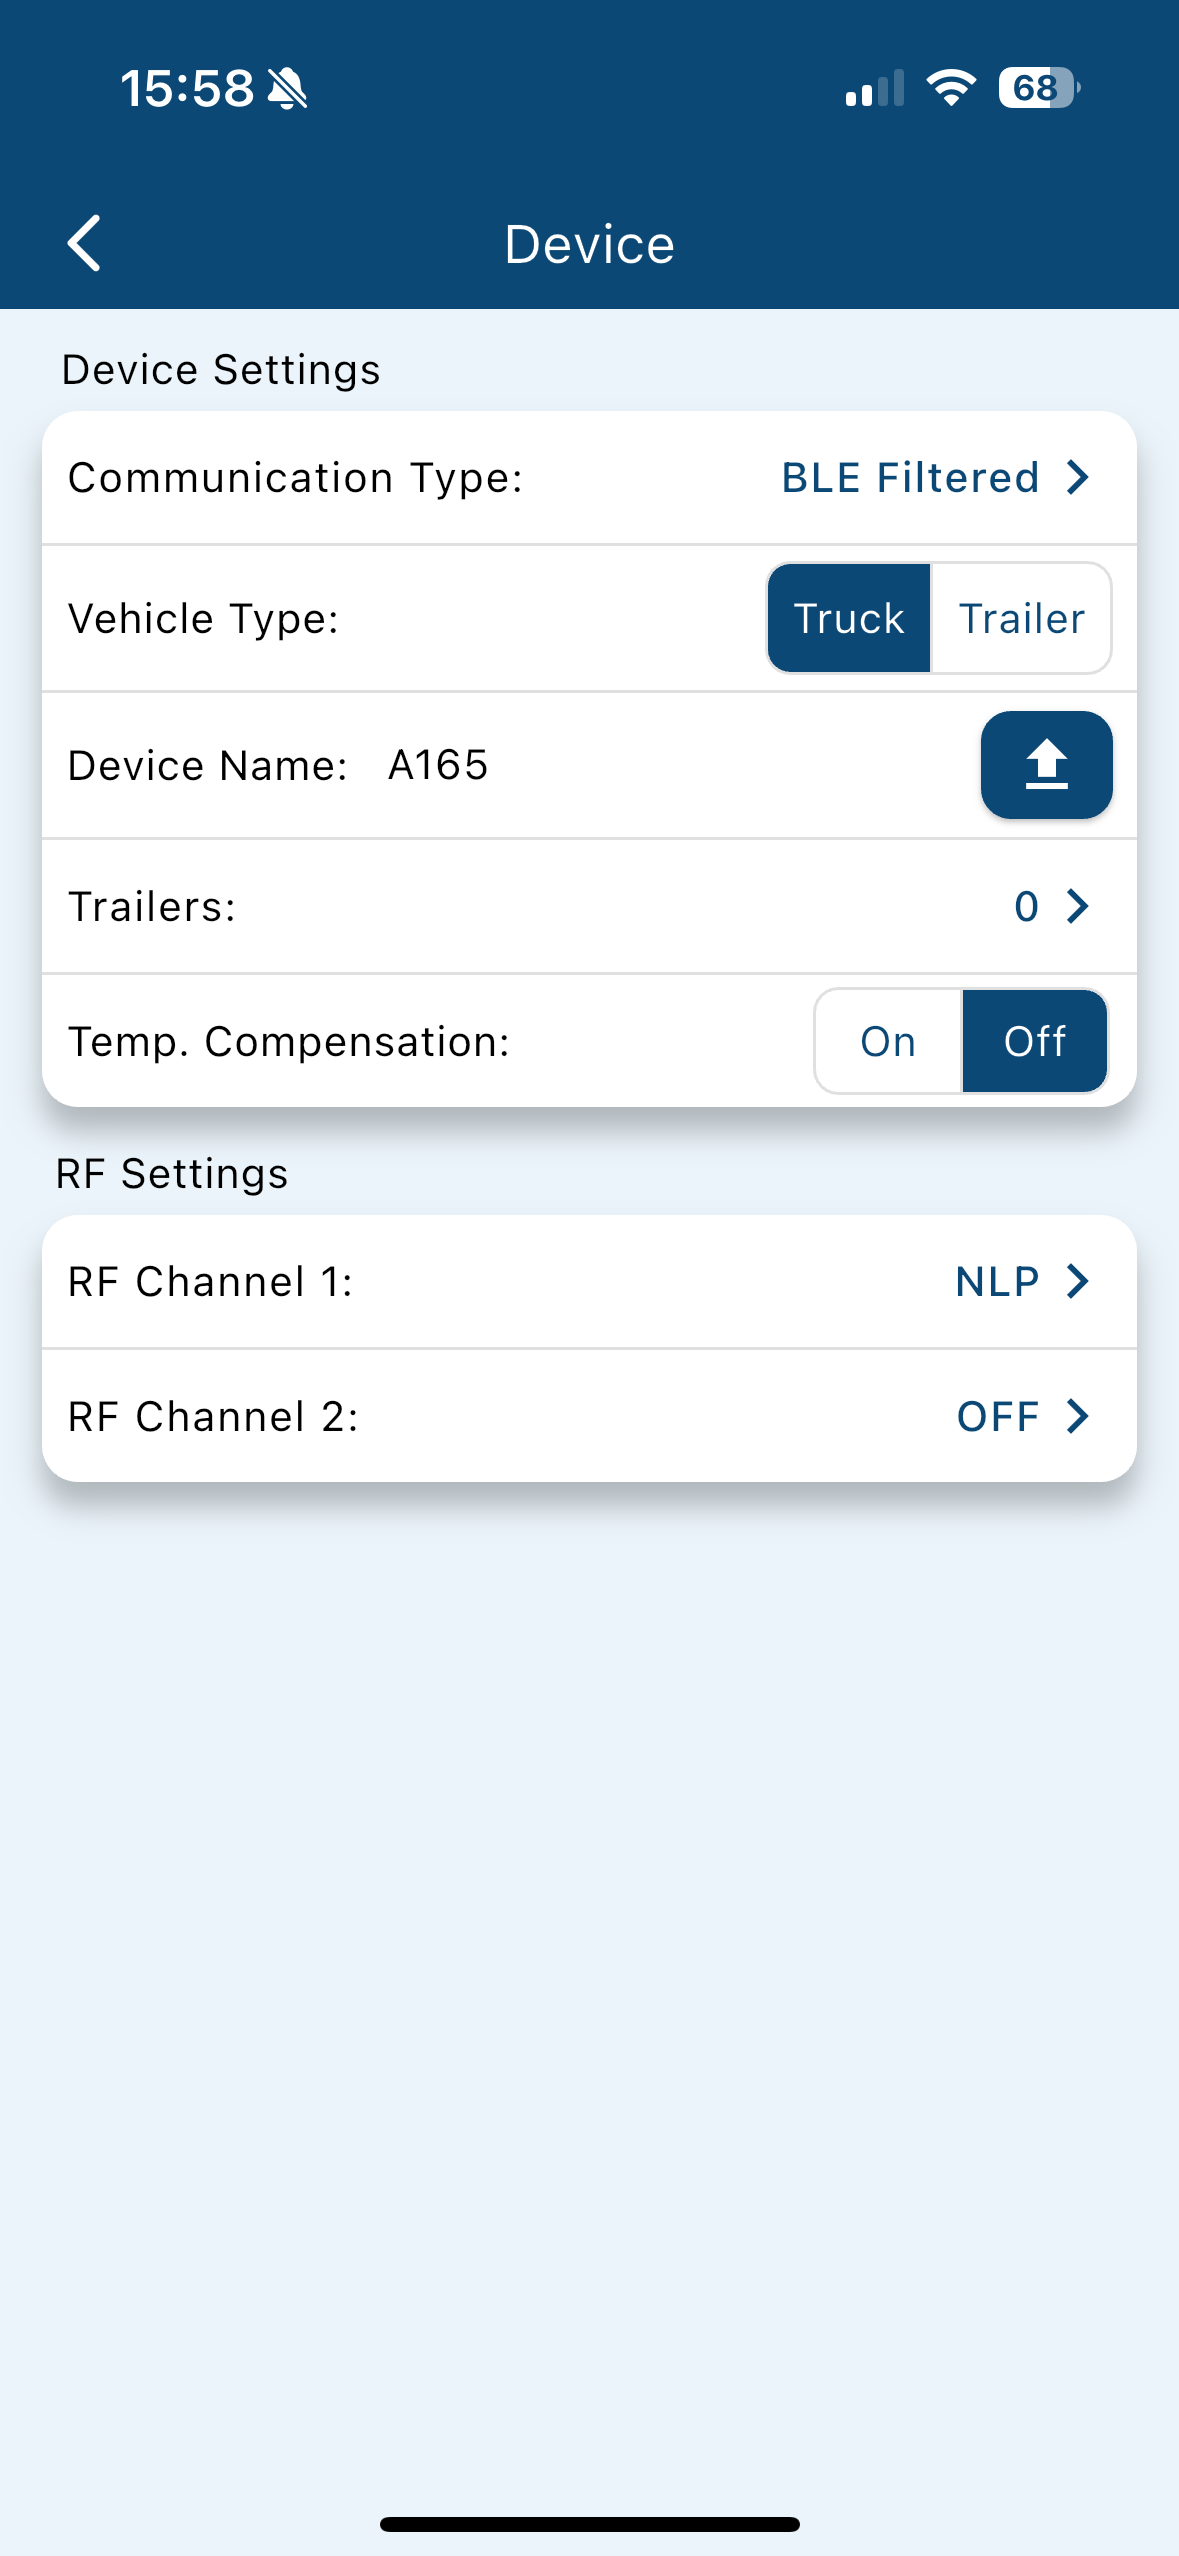
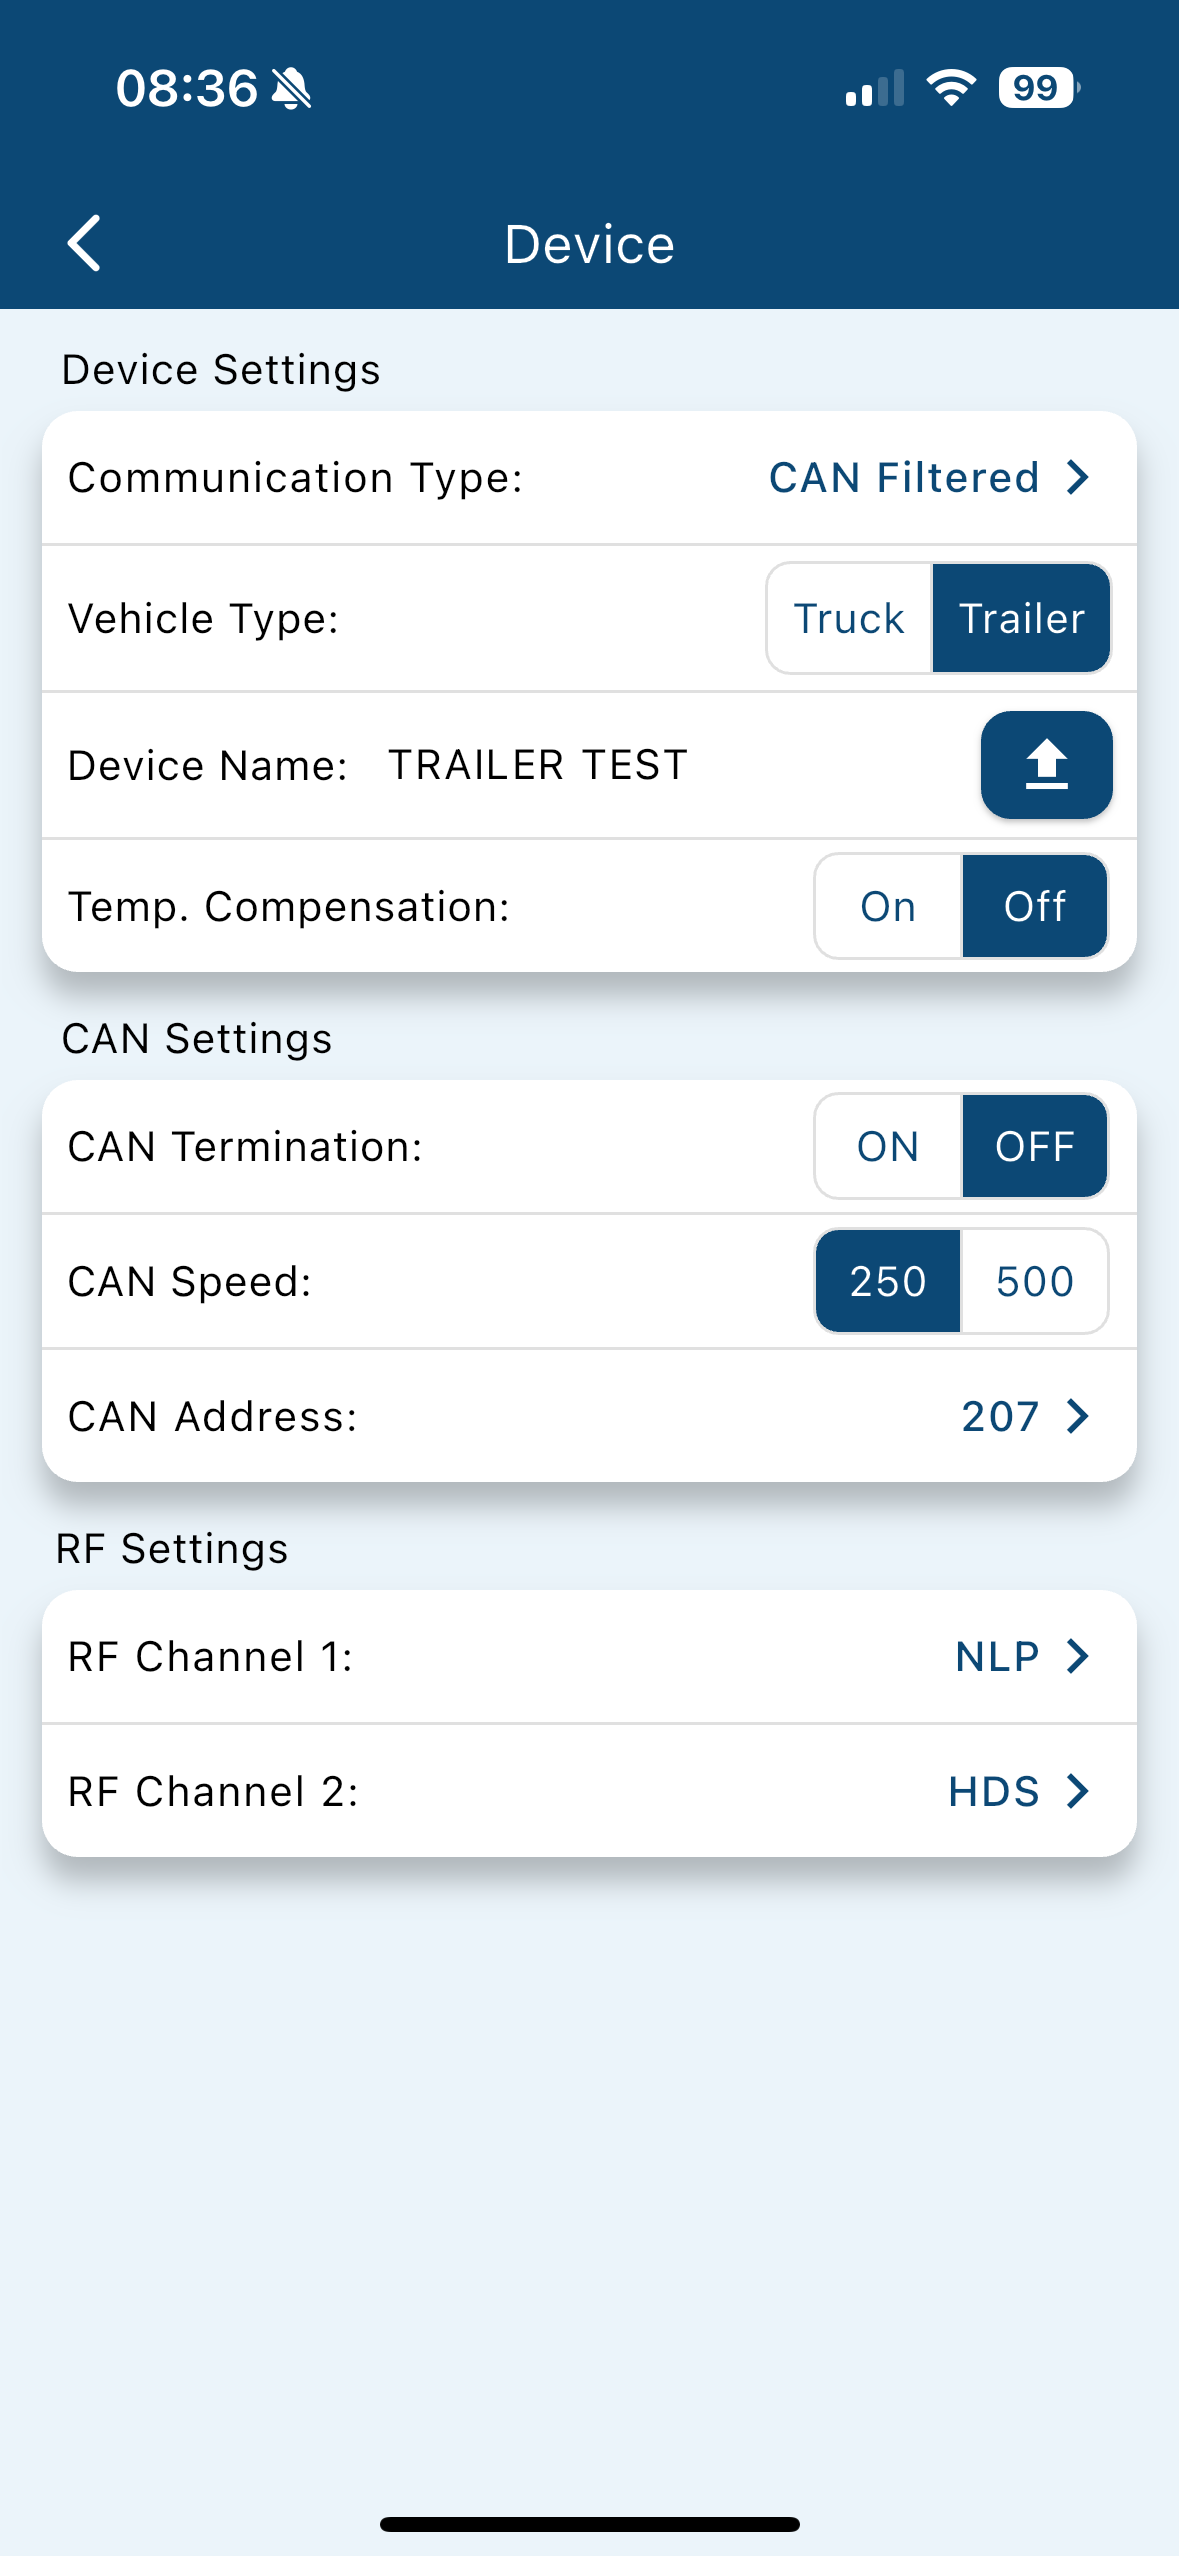
disabled pdf

diff --git a/docs/setup-screen/device.md b/docs/setup-screen/device.md
@@ -5,7 +5,29 @@ pdf: true
 
 The Device Menu enables in-depth configurations:
 
-- **Communication Types:** BLE, CAN, or RS232.
+- **Communication Types:**
+
+Each communication type utilizes a specific transmission method to send the data:
+
+    - BLE (Bluetooth Low Energy): Transmits data wirelessly using BLE technology.
+    - CAN (Controller Area Network): Communicates over a CAN bus, commonly used in automotive environments.
+    - RS232: Transmits data through a serial connection.
+
+| **Type**       | **Mode**      | **Description**                                                                 |
+|-----------------|--------------|---------------------------------------------------------------------------------|
+| **BLE**         | Filtered      | Allows setup of a vehicle and its tires, only displays sensors for this setup.  |
+|                 | Unfiltered    | Displays all sensors around without a vehicle layout.                          |
+| **CAN**         | Filtered      | Supports vehicle and tire setup, listening only to configured sensors.         |
+|                 | Unfiltered    | Displays any sensor data without a specific layout.                            |
+|                 | CAN Garage    | A specific CAN mode tailored for garage or workshop environments.|
+|                 | EBS    | A specific CAN mode tailored for Trailer EBS systems.|
+|                 | RAW    | Custom communication types tailored for specific use cases.|
+|                 | J1939    | A specific CAN mode tailored for J1939.|
+|                 | Unfiltered (old)    | A specific CAN mode tailored for J1939.|
+| **RS232**       | Filtered      | Allows for vehicle and tire-specific setup, displaying configured sensors only.|
+|                 | Unfiltered    | Displays all sensor data without any predefined configuration.|
+|                 | Tacograph    | Custom communication types tailored for specific use cases.  |
+
 - **Vehicle Setup:** Assign a vehicle as a truck or trailer.
 - **Temperature Compensation:** Adjust pressure readings based on temperature.
 - **RF Settings:** Configure single or dual RF channels with specific sensor communication type.
@@ -16,6 +38,12 @@ For Trucks only:
 - **Enable Drop and Hook,** for automatic trailer detection and ordering.
 - **Input Trailer MAC IDs,** manually or via QR codes.
 
-    | **Device Menu**       | **Trailer Menu**     |
-    |:----------------------:|:--------------------:|
-    | ![Update Menu](images/device_menu.PNG){width="200px"} | ![Confirm Update](images/trailer_menu.PNG){width="200px"} |
+For CAN only:
+
+- **CAN Termination:** Enables or disables termination resistance, essential for maintaining signal integrity on the CAN bus.
+- **CAN Speed:** Selectable speeds of 250 kbps or 500 kbps, accommodating different CAN network standards.
+- **CAN Address:** Configurable CAN IDs to avoid conflicts and ensure proper communication in multi-device environments.
+
+| **Device Menu**       | **Trailer Menu**     |
+|:----------------------:|:--------------------:|
+| ![Update Menu](images/device_menu.PNG){width="200px"} | ![Confirm Update](images/trailer_menu.PNG){width="200px"} |
